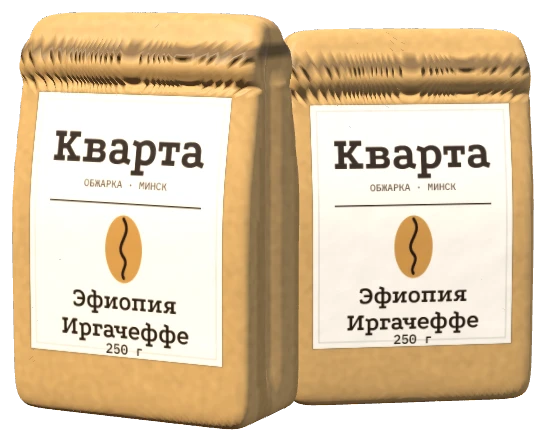
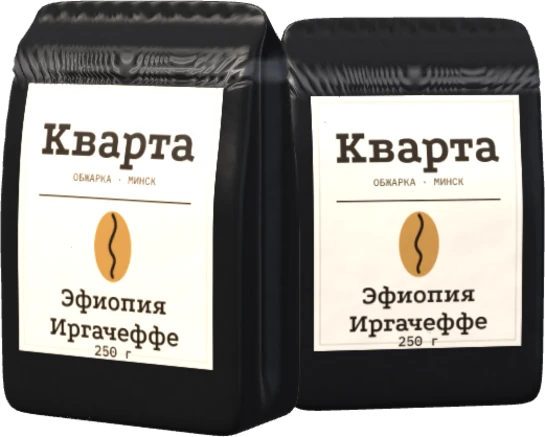
3D-модели: чёрный пакет с плоским швом и зипом, дрип-пакет с ушами, коробка на 10 пакетов

diff --git a/public/gl/kv-gl.js b/public/gl/kv-gl.js
@@ -211,27 +211,33 @@
   // box pinched towards the top, with pleated side gussets, a rolled-over top, a metal tie and a valve on the back
   var BAG_PLANES = [[1, 0, 0, 0.62], [-1, 0, 0, 0.62], [0, 1, 0, 0.92], [0, -1, 0, 0.92], [0, 0, 1, 0.30], [0, 0, -1, 0.30],
     [0, 0.214, 0.977, 0.314], [0, 0.214, -0.977, 0.314], [0.7, 0.7, 0, 1.12], [-0.7, 0.7, 0, 1.12]];
-  var BAG_KRAFT = [0.80, 0.62, 0.38], BAG_KRAFT_B = [0.72, 0.55, 0.33];
+  var BAG_INK = [0.085, 0.085, 0.092], BAG_INK_B = [0.07, 0.07, 0.077];
   function bagPos(th, ph, o) {
     var n = [0, 0, 0]; dirOf(th, ph, n);
     var r = softPoly(n, BAG_PLANES, 16), x = n[0] * r, y = n[1] * r, z = n[2] * r;
     var side = smoothstep(0.50, 0.60, Math.abs(x)) * (1 - smoothstep(0.64, 0.9, Math.abs(y)));
     x -= (x < 0 ? -1 : 1) * 0.055 * Math.exp(-(z * z) / 0.0049) * side;
     var sz = z < 0 ? -1 : 1, fz = smoothstep(0.02, 0.2, Math.abs(z));
-    z += sz * 0.07 * Math.exp(-Math.pow((y - 0.70) / 0.075, 2)) * fz;
-    z -= sz * 0.028 * Math.exp(-Math.pow((y - 0.60) / 0.013, 2)) * fz;
-    z += sz * 0.022 * smoothstep(0.715, 0.73, y) * (1 - smoothstep(0.775, 0.79, y)) * fz;
+    // верх пакета сплющен в плоский шов; под ним зип-молния: канавка и две дорожки
+    z *= 1 - 0.86 * smoothstep(0.70, 0.86, y);
+    z -= sz * 0.022 * Math.exp(-Math.pow((y - 0.585) / 0.011, 2)) * fz;
+    z += sz * 0.016 * Math.exp(-Math.pow((y - 0.615) / 0.012, 2)) * fz;
+    z += sz * 0.012 * Math.exp(-Math.pow((y - 0.66) / 0.010, 2)) * fz;
+    // рифление термошва и мягкие складки плёнки
+    z += sz * 0.006 * Math.sin(x * 64) * smoothstep(0.84, 0.87, y) * fz;
+    z += sz * 0.011 * Math.sin(5.3 * x + 3.1 * y) * Math.sin(6.4 * y - 2.2 * x + 1.3) * smoothstep(-0.45, 0.45, y) * (1 - smoothstep(0.55, 0.7, y)) * fz;
     if (z < 0) z -= 0.022 * (1 - smoothstep(0.075, 0.09, Math.hypot(x, y - 0.38)));
     o[0] = x; o[1] = y; o[2] = z;
   }
   function bakeBag(g) {
     return bakeAnalytic(g, bagPos, function (i, j, x, y, z, nx, ny, nz, o) {
-      var k = nz > 0 ? BAG_KRAFT : BAG_KRAFT_B, c = [k[0], k[1], k[2]], gl = 0.18, metal = 0;
-      var seal = smoothstep(0.585, 0.6, y) * 0.0; // the roll keeps the kraft colour; shading does the work
-      var tie = smoothstep(0.715, 0.73, y) * (1 - smoothstep(0.775, 0.79, y));
-      if (tie > 0) { c = [mix(c[0], c[0] * 0.62, tie), mix(c[1], c[1] * 0.62, tie), mix(c[2], c[2] * 0.62, tie)]; gl = mix(gl, 0.3, tie); metal = tie * 0.22; } // сгиб сверху: тот же крафт, чуть темнее, без блестящей фольги
+      var k = nz > 0 ? BAG_INK : BAG_INK_B, c = [k[0], k[1], k[2]], gl = 0.22, metal = 0;
+      var zip = smoothstep(0.575, 0.585, y) * (1 - smoothstep(0.67, 0.68, y));
+      if (zip > 0) { c = [mix(c[0], 0.25, zip), mix(c[1], 0.25, zip), mix(c[2], 0.26, zip)]; gl = mix(gl, 0.5, zip); }
+      var seal = smoothstep(0.8, 0.86, y);
+      if (seal > 0) { c = [mix(c[0], 0.11, seal), mix(c[1], 0.11, seal), mix(c[2], 0.115, seal)]; gl = mix(gl, 0.34, seal); }
       var vm = nz < 0 ? 1 - smoothstep(0.075, 0.09, Math.hypot(x, y - 0.38)) : 0;
-      if (vm > 0) { c = [mix(c[0], 0.92, vm), mix(c[1], 0.92, vm), mix(c[2], 0.9, vm)]; gl = mix(gl, 0.45, vm); }
+      if (vm > 0) { c = [mix(c[0], 0.36, vm), mix(c[1], 0.36, vm), mix(c[2], 0.37, vm)]; gl = mix(gl, 0.6, vm); }
       o[0] = c[0]; o[1] = c[1]; o[2] = c[2]; o[3] = gl; o[4] = 0; o[5] = metal;
       o[7] = (nz > 0.55 && Math.abs(x) < 0.6 && y < 0.57) ? 1 : 0;
     });
@@ -363,7 +369,7 @@
 
   /* ------------------------------------------------------------- decal atlas */
   // Canvas2D art for the decals. Atlas (1024x1024) regions in px: bag label 0,0..600,890; van logo; workshop sign.
-  var ATLAS = { logo: [620, 0, 1020, 200], sign: [620, 230, 1020, 430] };
+  var ATLAS = { logo: [620, 0, 1020, 200], sign: [620, 230, 1020, 430], box: [620, 450, 1020, 850], band: [620, 860, 1020, 1020] };
   function drawDecals() {
     var mk = function () { var c = document.createElement('canvas'); c.width = 1024; c.height = 1024; return c; };
     var lab = mk(), stp = mk(), a = lab.getContext('2d'), b = stp.getContext('2d');
@@ -396,6 +402,30 @@
     a.strokeStyle = '#f8f1e3'; a.lineWidth = 4; a.strokeRect(10, 30, 380, 130);
     a.fillStyle = '#f8f1e3'; a.textAlign = 'center'; a.font = '800 84px ' + DISPLAY; a.fillText('Кварта', 200, 112);
     a.font = '500 22px ' + MONO; a.fillStyle = '#f0a07e'; a.fillText('ОБЖАРКА КОФЕ', 200, 146);
+    a.restore();
+    // коробка дрип-пакетов, лицевая сторона
+    var Bx = ATLAS.box;
+    a.save(); a.translate(Bx[0], Bx[1]);
+    a.fillStyle = '#eadfc4'; a.fillRect(0, 0, 400, 400);
+    a.strokeStyle = '#1f1610'; a.lineWidth = 5; a.strokeRect(16, 16, 368, 368);
+    a.fillStyle = '#1f1610'; a.textAlign = 'left'; a.font = '800 92px ' + DISPLAY; a.fillText('Кварта', 38, 118);
+    a.font = '500 20px ' + MONO; a.fillStyle = '#55463a'; a.fillText('ОБЖАРКА · МИНСК', 42, 152);
+    a.fillStyle = '#1f1610'; a.fillRect(40, 176, 320, 3);
+    a.font = '700 50px ' + DISPLAY; a.fillStyle = '#1f1610'; a.fillText('Дрип-', 38, 246); a.fillText('пакеты', 38, 298);
+    a.font = '500 20px ' + MONO; a.fillStyle = '#55463a'; a.fillText('АССОРТИ · 12 Г', 42, 338);
+    a.fillStyle = '#e2562b'; a.beginPath(); a.arc(305, 285, 58, 0, 2 * PI); a.fill();
+    a.fillStyle = '#f8f1e3'; a.textAlign = 'center'; a.font = '800 66px ' + DISPLAY; a.fillText('10', 305, 292);
+    a.font = '500 17px ' + MONO; a.fillText('ПАКЕТОВ', 305, 320);
+    a.restore();
+    // лента на лицевой стороне дрип-пакета
+    var Bd = ATLAS.band;
+    a.save(); a.translate(Bd[0], Bd[1]);
+    a.fillStyle = '#f3ecdc'; a.fillRect(0, 0, 400, 160);
+    a.fillStyle = '#e2562b'; a.fillRect(0, 0, 400, 12); a.fillRect(0, 148, 400, 12);
+    a.textAlign = 'left'; a.fillStyle = '#1f1610'; a.font = '800 78px ' + DISPLAY; a.fillText('Кварта', 28, 98);
+    a.font = '500 21px ' + MONO; a.fillStyle = '#55463a'; a.fillText('ДРИП · 12 Г · ЭФИОПИЯ', 30, 132);
+    a.translate(335, 82); a.scale(1, 1.3); a.fillStyle = '#c28a46'; a.beginPath(); a.ellipse(0, 0, 26, 30, 0, 0, 2 * PI); a.fill();
+    a.strokeStyle = '#1f1610'; a.lineWidth = 4; a.lineCap = 'round'; a.beginPath(); a.moveTo(0, -27); a.bezierCurveTo(14, -13, -14, -5, 0, 7); a.bezierCurveTo(8, 14, -6, 20, 0, 26); a.stroke();
     a.restore();
     // stamp layer (same mapping as the bag label)
     b.save(); b.translate(360, 560); b.rotate(-0.16);

diff --git a/public/gl/kv-models.js b/public/gl/kv-models.js
@@ -616,6 +616,51 @@
     return mb.mesh();
   }
 
+  /* ------------------------------------------- drip sachet and the box of ten */
+  var PAPER = [0.94, 0.92, 0.86];
+  function buildSachet() { // стоит на нижнем шве, центр в начале координат, высота 1.1 (уши сверху выше)
+    var mb = new MB(), W = 0.43, H = 0.55, T = 0.032, FOIL = [0.80, 0.62, 0.40];
+    mb.extrudeRounded([[-W, -H], [W, -H], [W, H], [-W, H]], -T, T, 0.012, 0.05, FOIL, 0.34);
+    // поперечные швы с рифлением внизу и вверху
+    [-H + 0.035, H - 0.035].forEach(function (y) {
+      mb.box(0, y, 0, W - 0.02, 0.03, T + 0.003, [0.70, 0.53, 0.34], 0.3, { bevel: 0.004 });
+      for (var k = -9; k <= 9; k++) mb.box(k * 0.043, y, 0, 0.007, 0.026, T + 0.006, [0.62, 0.46, 0.29], 0.3);
+    });
+    // лента с логотипом на обеих сторонах
+    [1, -1].forEach(function (s) {
+      var z = s * (T + 0.0035), w = W * 0.9, h = w * 160 / 400;
+      mb.decal([-w, -0.1, z], [w, -0.1, z], [w, -0.1 + 2 * h, z], [-w, -0.1 + 2 * h, z], K.ATLAS.band, s < 0, [0, 0, s]);
+    });
+    // бумажные уши для кружки: раскрыты V-образно
+    [-1, 1].forEach(function (s) {
+      mb.push(rotZ(s * 0.62), [s * 0.14, H - 0.02, 0]);
+      mb.box(s * 0.2, 0.0, 0, 0.21, 0.085, 0.007, PAPER, 0.15, { bevel: 0.003 });
+      mb.box(s * 0.2, 0.0, 0.0, 0.19, 0.003, 0.009, [0.82, 0.78, 0.68], 0.2);
+      mb.pop();
+    });
+    return mb.mesh();
+  }
+  function buildDripBox() { // стоит на дне, центр в начале координат, 1.1 x 1.32 x 0.5
+    var mb = new MB(), HX = 0.55, HY = 0.66, HZ = 0.25, KR = [0.85, 0.74, 0.54];
+    mb.box(0, 0, 0, HX, HY, HZ, KR, 0.16, { bevel: 0.016 });
+    // линия крышки и язычок
+    mb.box(0, 0.5, 0, HX + 0.002, 0.004, HZ + 0.002, [0.55, 0.42, 0.27], 0.2);
+    mb.box(0, 0.66, 0, 0.18, 0.003, HZ + 0.003, [0.55, 0.42, 0.27], 0.2);
+    // лицевая сторона
+    [1, -1].forEach(function (s) {
+      var z = s * (HZ + 0.003);
+      mb.decal([-0.52, -0.62, z], [0.52, -0.62, z], [0.52, 0.42, z], [-0.52, 0.42, z], K.ATLAS.box, s < 0, [0, 0, s]);
+    });
+    // торец с логотипом
+    [1, -1].forEach(function (s) {
+      var x = s * (HX + 0.003), zz = 0.21;
+      mb.decal([x, 0.05, s * zz], [x, 0.05, -s * zz], [x, 0.05 + zz, -s * zz], [x, 0.05 + zz, s * zz], K.ATLAS.logo, false, [s, 0, 0]);
+    });
+    return mb.mesh();
+  }
+
+  K.registerShape('sachet', buildSachet);
+  K.registerShape('dripBox', buildDripBox);
   K.registerShape('kettle', buildKettle);
   K.registerShape('wheel', buildWheel);
   K.registerShape('vanD', buildVan);

diff --git a/public/gl/kv-scenes.js b/public/gl/kv-scenes.js
@@ -40,9 +40,10 @@
     var ry = 0.35 + t * 0.6, rz = -0.35 + 0.06 * Math.sin(t * 0.4);
     r.begin({ time: t });
     if (sel === 'drip') {
-      r.draw({ a: 'bean', q: 'hi', pos: [-1.15, 0.25, 0], rx: -0.25, ry: ry, rz: rz, s: 0.78, roast: 0.38, seed: 11 });
-      r.draw({ a: 'bean', q: 'hi', pos: [0.05, -0.15, 0.3], rx: -0.2, ry: ry * 0.8 + 0.4, rz: rz + 0.2, s: 0.78, roast: 0.62, seed: 12 });
-      r.draw({ a: 'bean', q: 'hi', pos: [1.2, 0.2, 0], rx: -0.25, ry: ry * 1.2 - 0.3, rz: rz + 0.5, s: 0.78, roast: 0.88, seed: 13 });
+      // коробка на 10 пакетов медленно поворачивается, рядом стоит один пакет с ушами для кружки
+      var sw = 0.5 * Math.sin(t * 0.5);
+      r.draw({ a: 'dripBox', q: 'hi', pos: [0.85, -0.1, 0], rx: 0.04, ry: -0.5 + sw, rz: 0, s: 1.7, decal: true, paper: 1 });
+      r.draw({ a: 'sachet', q: 'hi', pos: [-1.3, -0.2, 0.45], rx: 0.04, ry: 0.5 - sw * 0.8, rz: 0.12, s: 1.95, decal: true, paper: 1 });
     } else {
       r.draw({ a: 'bean', q: 'hi', pos: [0, 0, 0], rx: -0.25, ry: ry, rz: rz, s: 1.2, roast: PREVIEW_ROAST[sel] == null ? 0.6 : PREVIEW_ROAST[sel], seed: 5 });
     }

diff --git a/lib/scenes.js b/lib/scenes.js
@@ -11,7 +11,7 @@ function mixc(a, b, t) {
 }
 var C_PAPER = hex('#e9e0cc'), C_FLAME = hex('#e2642e'), C_ESP = hex('#2a1b13'), C_DPAPER = hex('#efe8d9'), C_SKY = hex('#cddde2');
 
-var SCRIPTS = ['/gl/kv-gl.js?v=15', '/gl/kv-models.js?v=15', '/gl/kv-scenes.js?v=15'];
+var SCRIPTS = ['/gl/kv-gl.js?v=18', '/gl/kv-models.js?v=18', '/gl/kv-scenes.js?v=18'];
 
 function loadScript(src) {
   return new Promise(function (resolve, reject) {
@@ -50,8 +50,8 @@ export function createScenes(root, getSel) {
     var opts = { maxDpr: dpr, shadowSize: (window.innerWidth || 1024) < 700 ? 1024 : 2048 };
     var r = c ? KG.create(c, opts) : null;
     st.gl[k] = r ? { el: c, r: r, opts: opts, dpr: dpr } : null;
-    if (k === 'B' && r) {
-      var redo = function () { if (st.gl.B) st.gl.B.r.setDecals(KG.drawDecals()); };
+    if ((k === 'B' || k === 'P') && r) {
+      var redo = function () { if (st.gl[k]) st.gl[k].r.setDecals(KG.drawDecals()); };
       redo();
       if (document.fonts && document.fonts.load) {
         Promise.all([document.fonts.load('800 60px Podkova'), document.fonts.load('700 40px Podkova'), document.fonts.load('500 20px "IBM Plex Mono"')]).then(redo, redo);

diff --git a/components/sections.tsx b/components/sections.tsx
@@ -110,7 +110,7 @@ export function Sub() {
           <div>
             <h2 style={{ margin: "0 0 14px" }}>Две пачки по 250 г раз в месяц</h2>
             <p className="price">54 <small>BYN / мес</small></p>
-        <img className="packimg" src="/pack.webp" alt="Две пачки кофе «Кварта» по 250 г" width="545" height="441" loading="lazy" decoding="async" />
+        <img className="packimg" src="/pack.webp" alt="Две пачки кофе «Кварта» по 250 г" width="545" height="437" loading="lazy" decoding="async" />
           </div>
           <div style={{ display: "grid", gap: "18px" }}>
             <ul>

diff --git a/public/gl/bag.html b/public/gl/bag.html
@@ -2,7 +2,7 @@
 <link rel="stylesheet" href="https://fonts.googleapis.com/css2?family=IBM+Plex+Mono:wght@400;500&family=Podkova:wght@500;700;800&display=swap">
 <style>html,body{margin:0;background:#f3eee5}canvas{display:block;width:900px;height:900px}</style></head><body>
 <canvas id="c" width="900" height="900"></canvas>
-<script src="kv-gl.js?v=c"></script><script src="kv-models.js?v=c"></script>
+<script src="kv-gl.js?v=d"></script><script src="kv-models.js?v=d"></script>
 <script>
 var K=KvGL, c=document.getElementById('c');
 var r=K.create(c,{maxDpr:1,shadowSize:2048});
